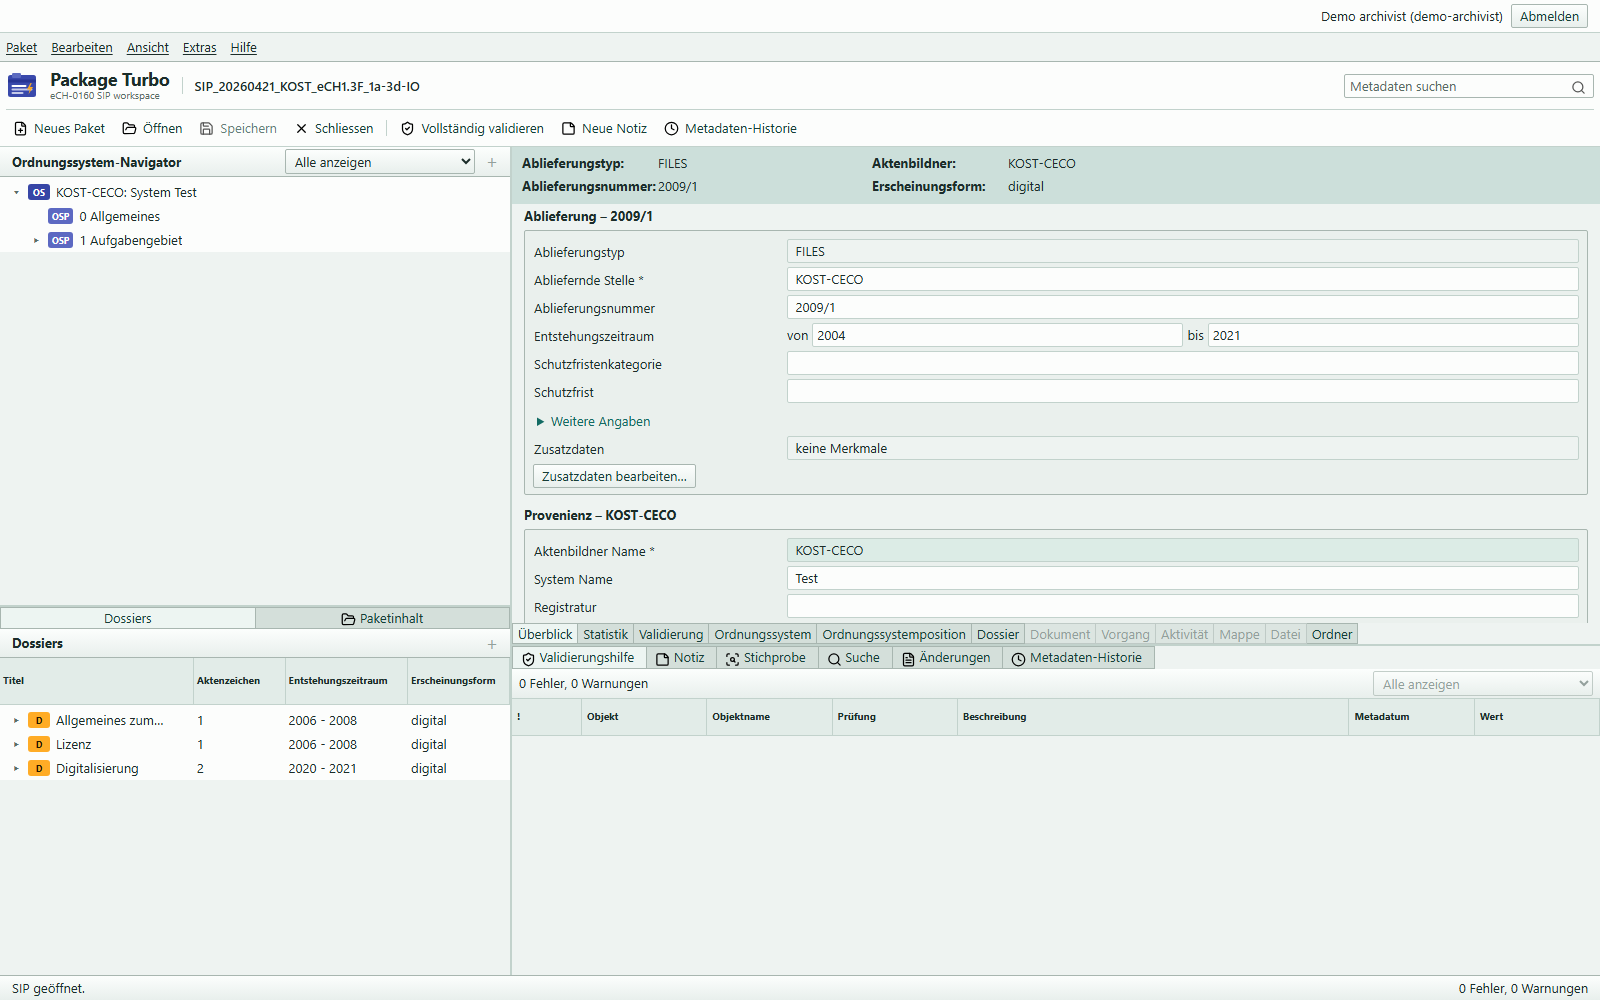
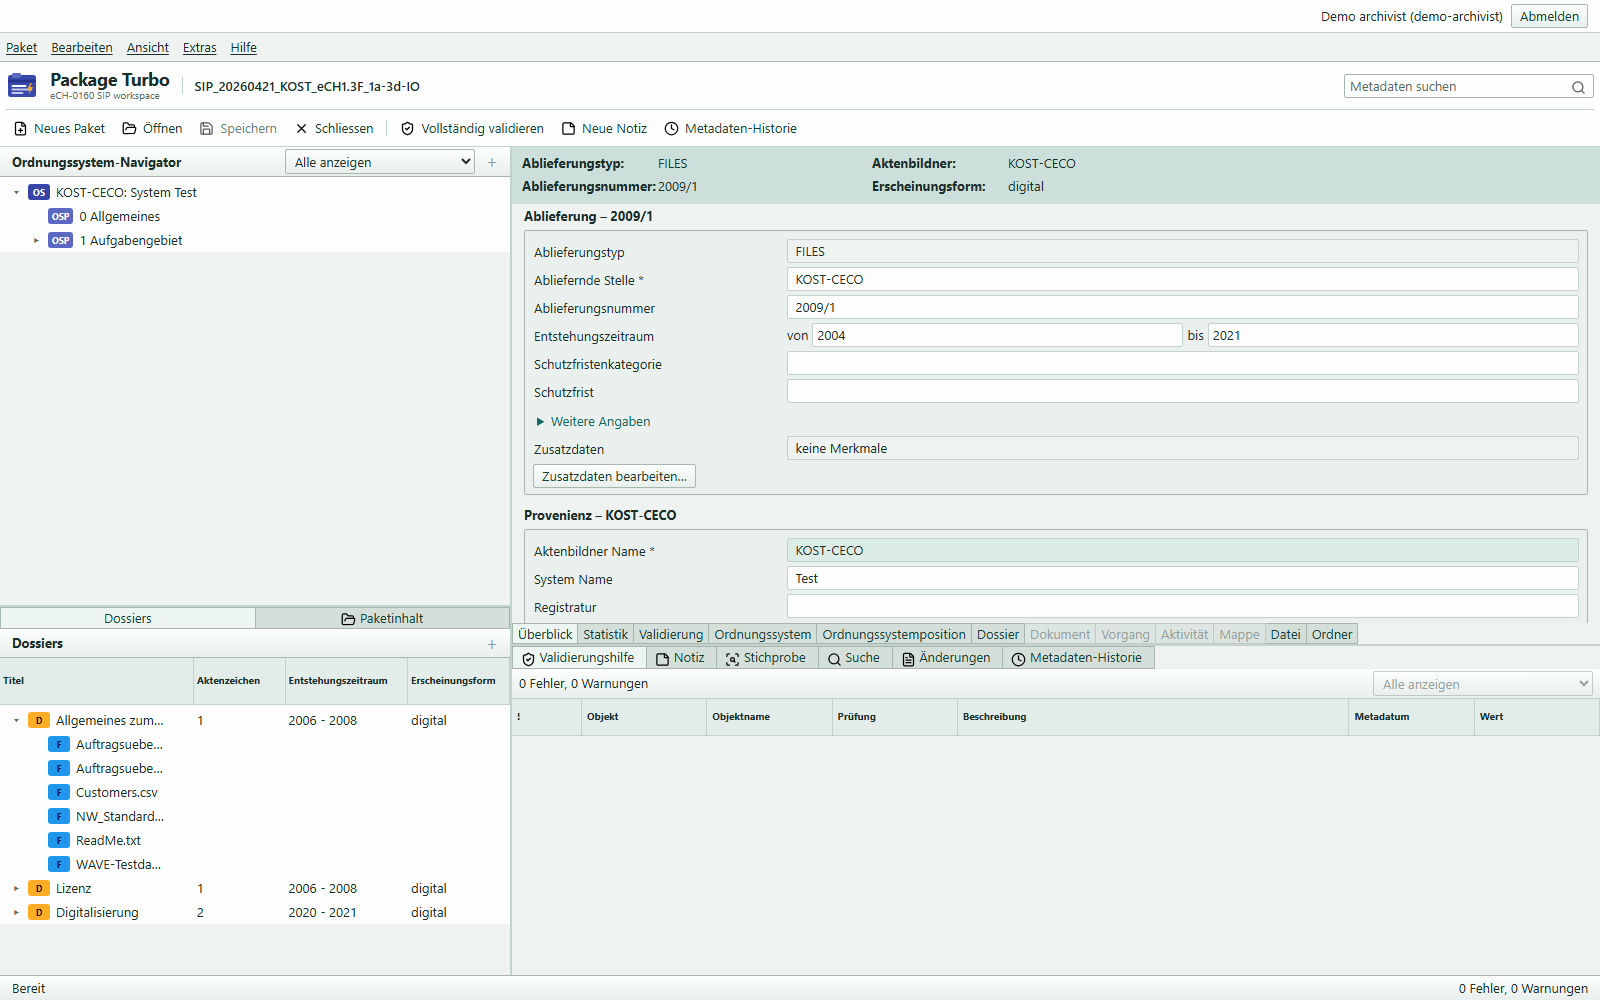
Show nested archive content in manual screenshots

diff --git a/readme.md b/readme.md
@@ -1,8 +1,10 @@
-# package-turbo
+# package-turbo-web
 
 An independent workspace for creating, editing and validating eCH-0160
 Submission Information Packages (SIPs), built with FastAPI and Angular.
 Package Turbo is experimental.
+
+![Package Turbo workspace showing the classification and dossier navigators with nested files and documents](docs/manual/screenshots/07-imported-sip.png)
 
 ## Browser workspace
 
